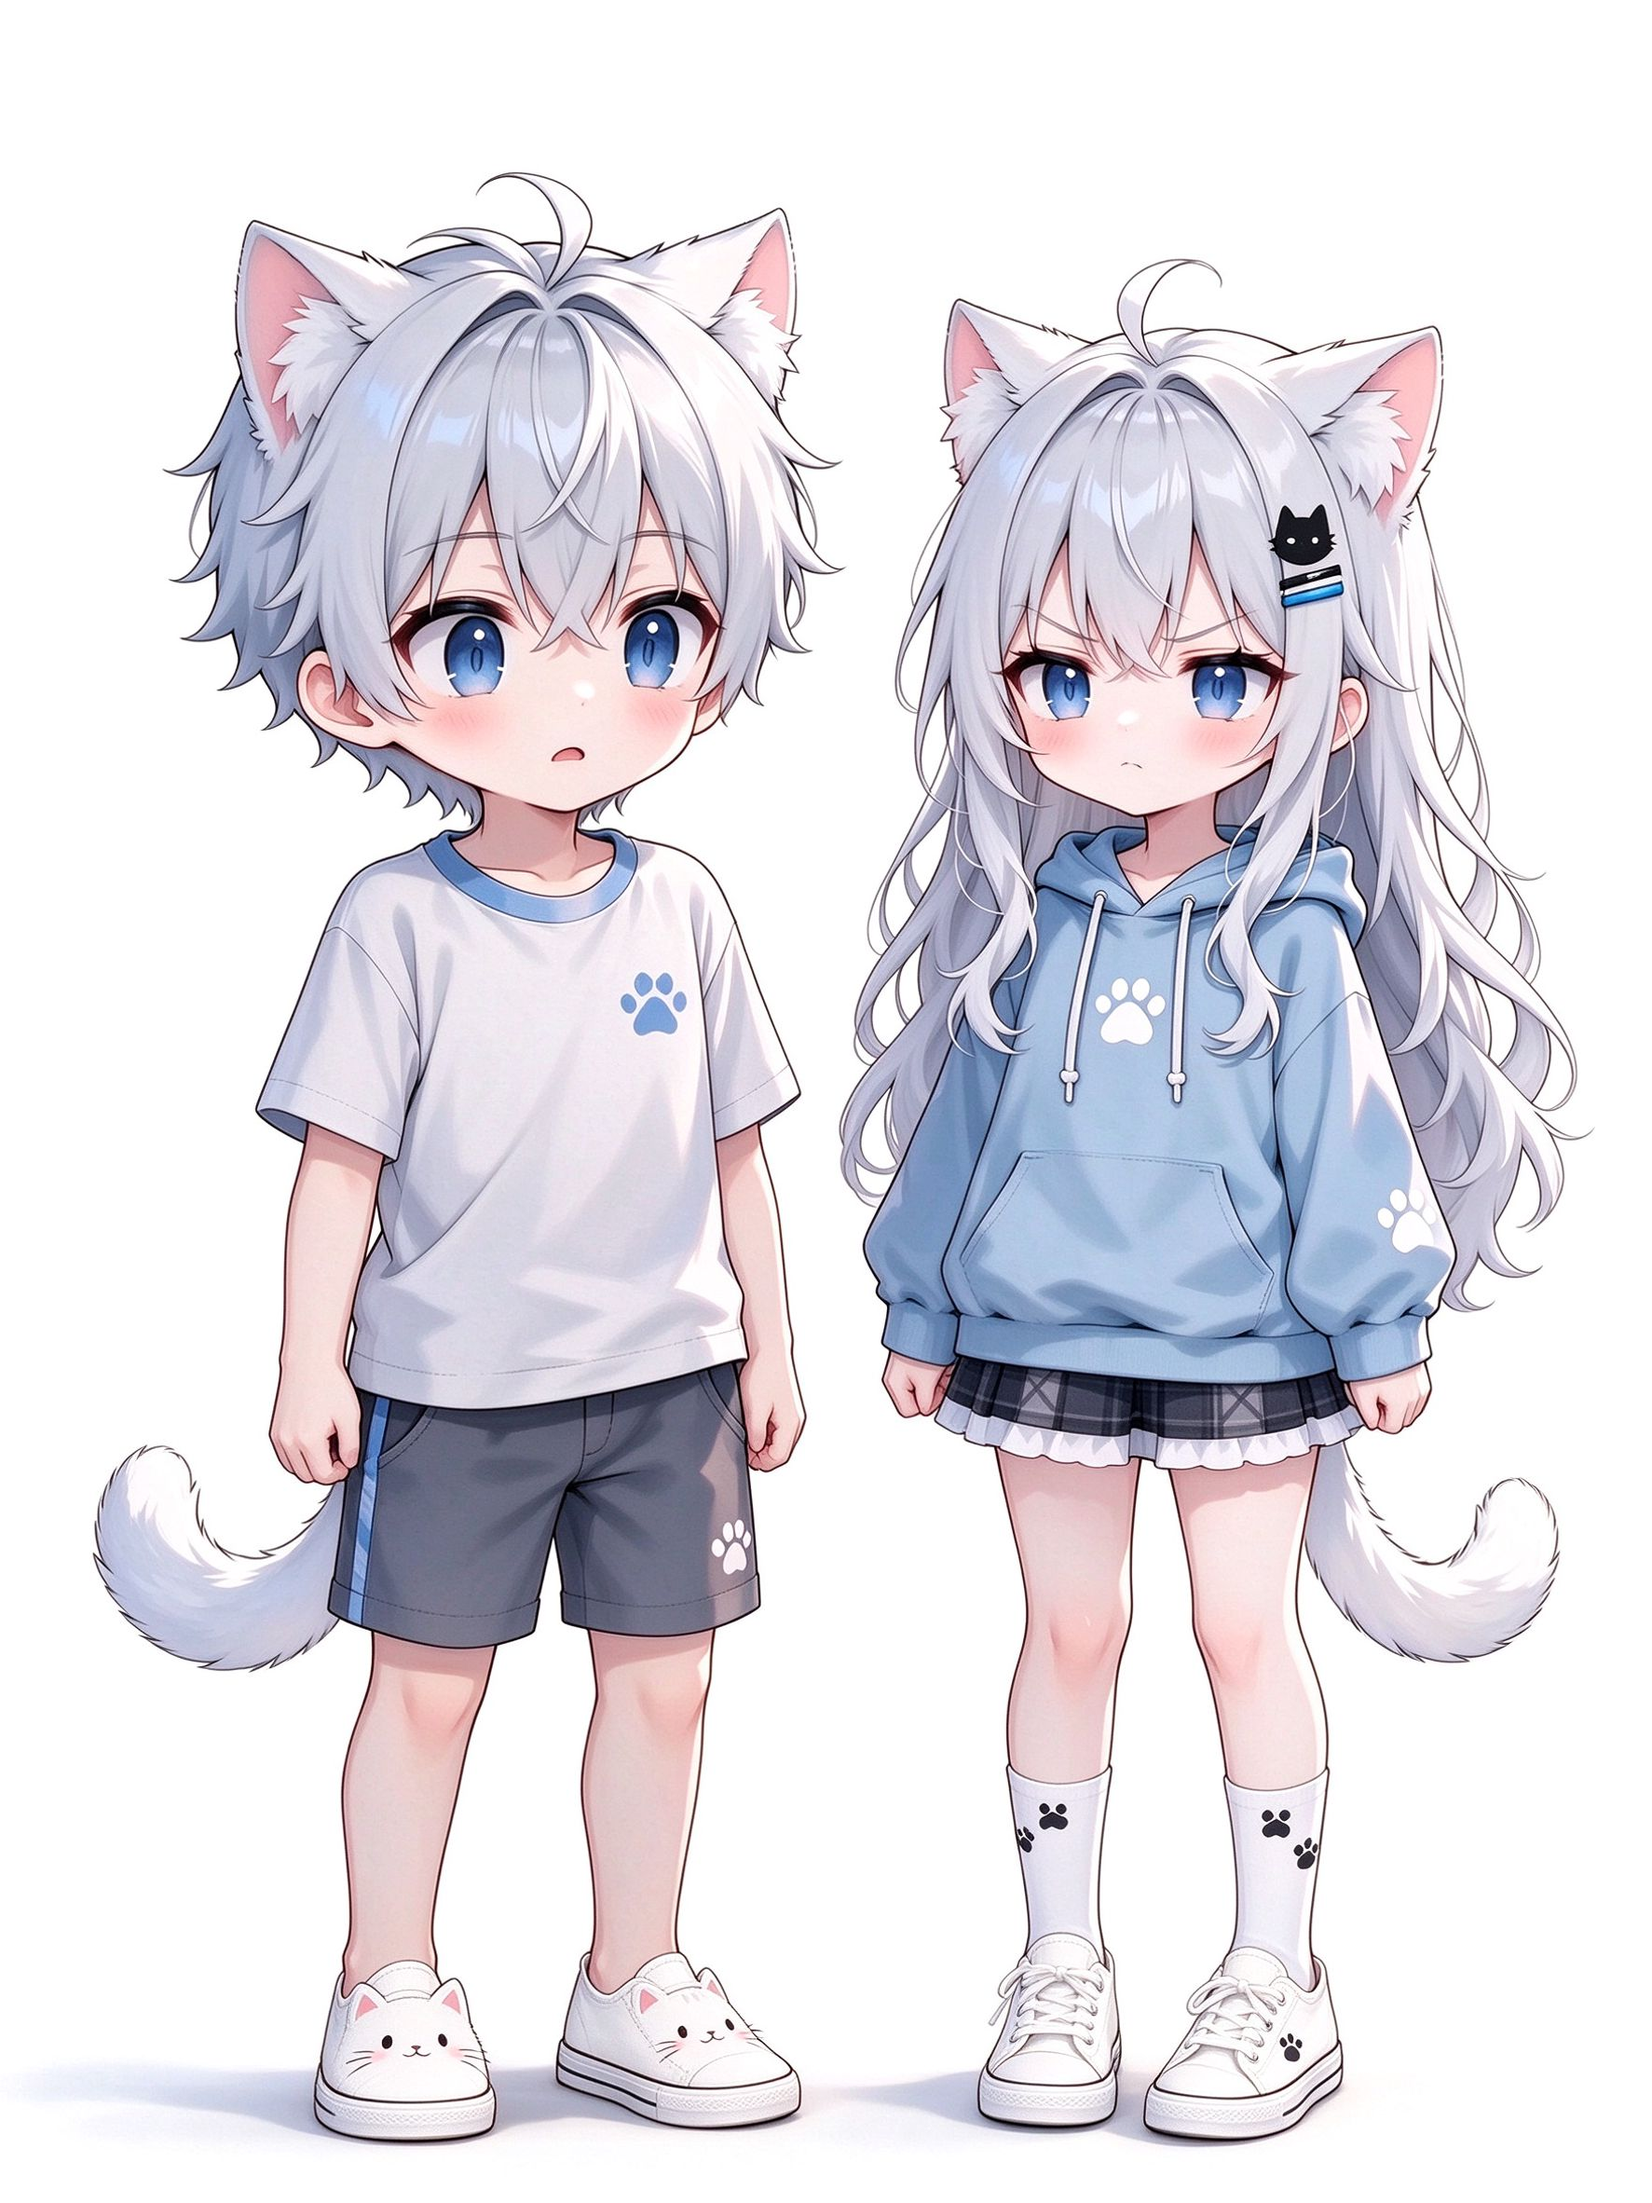
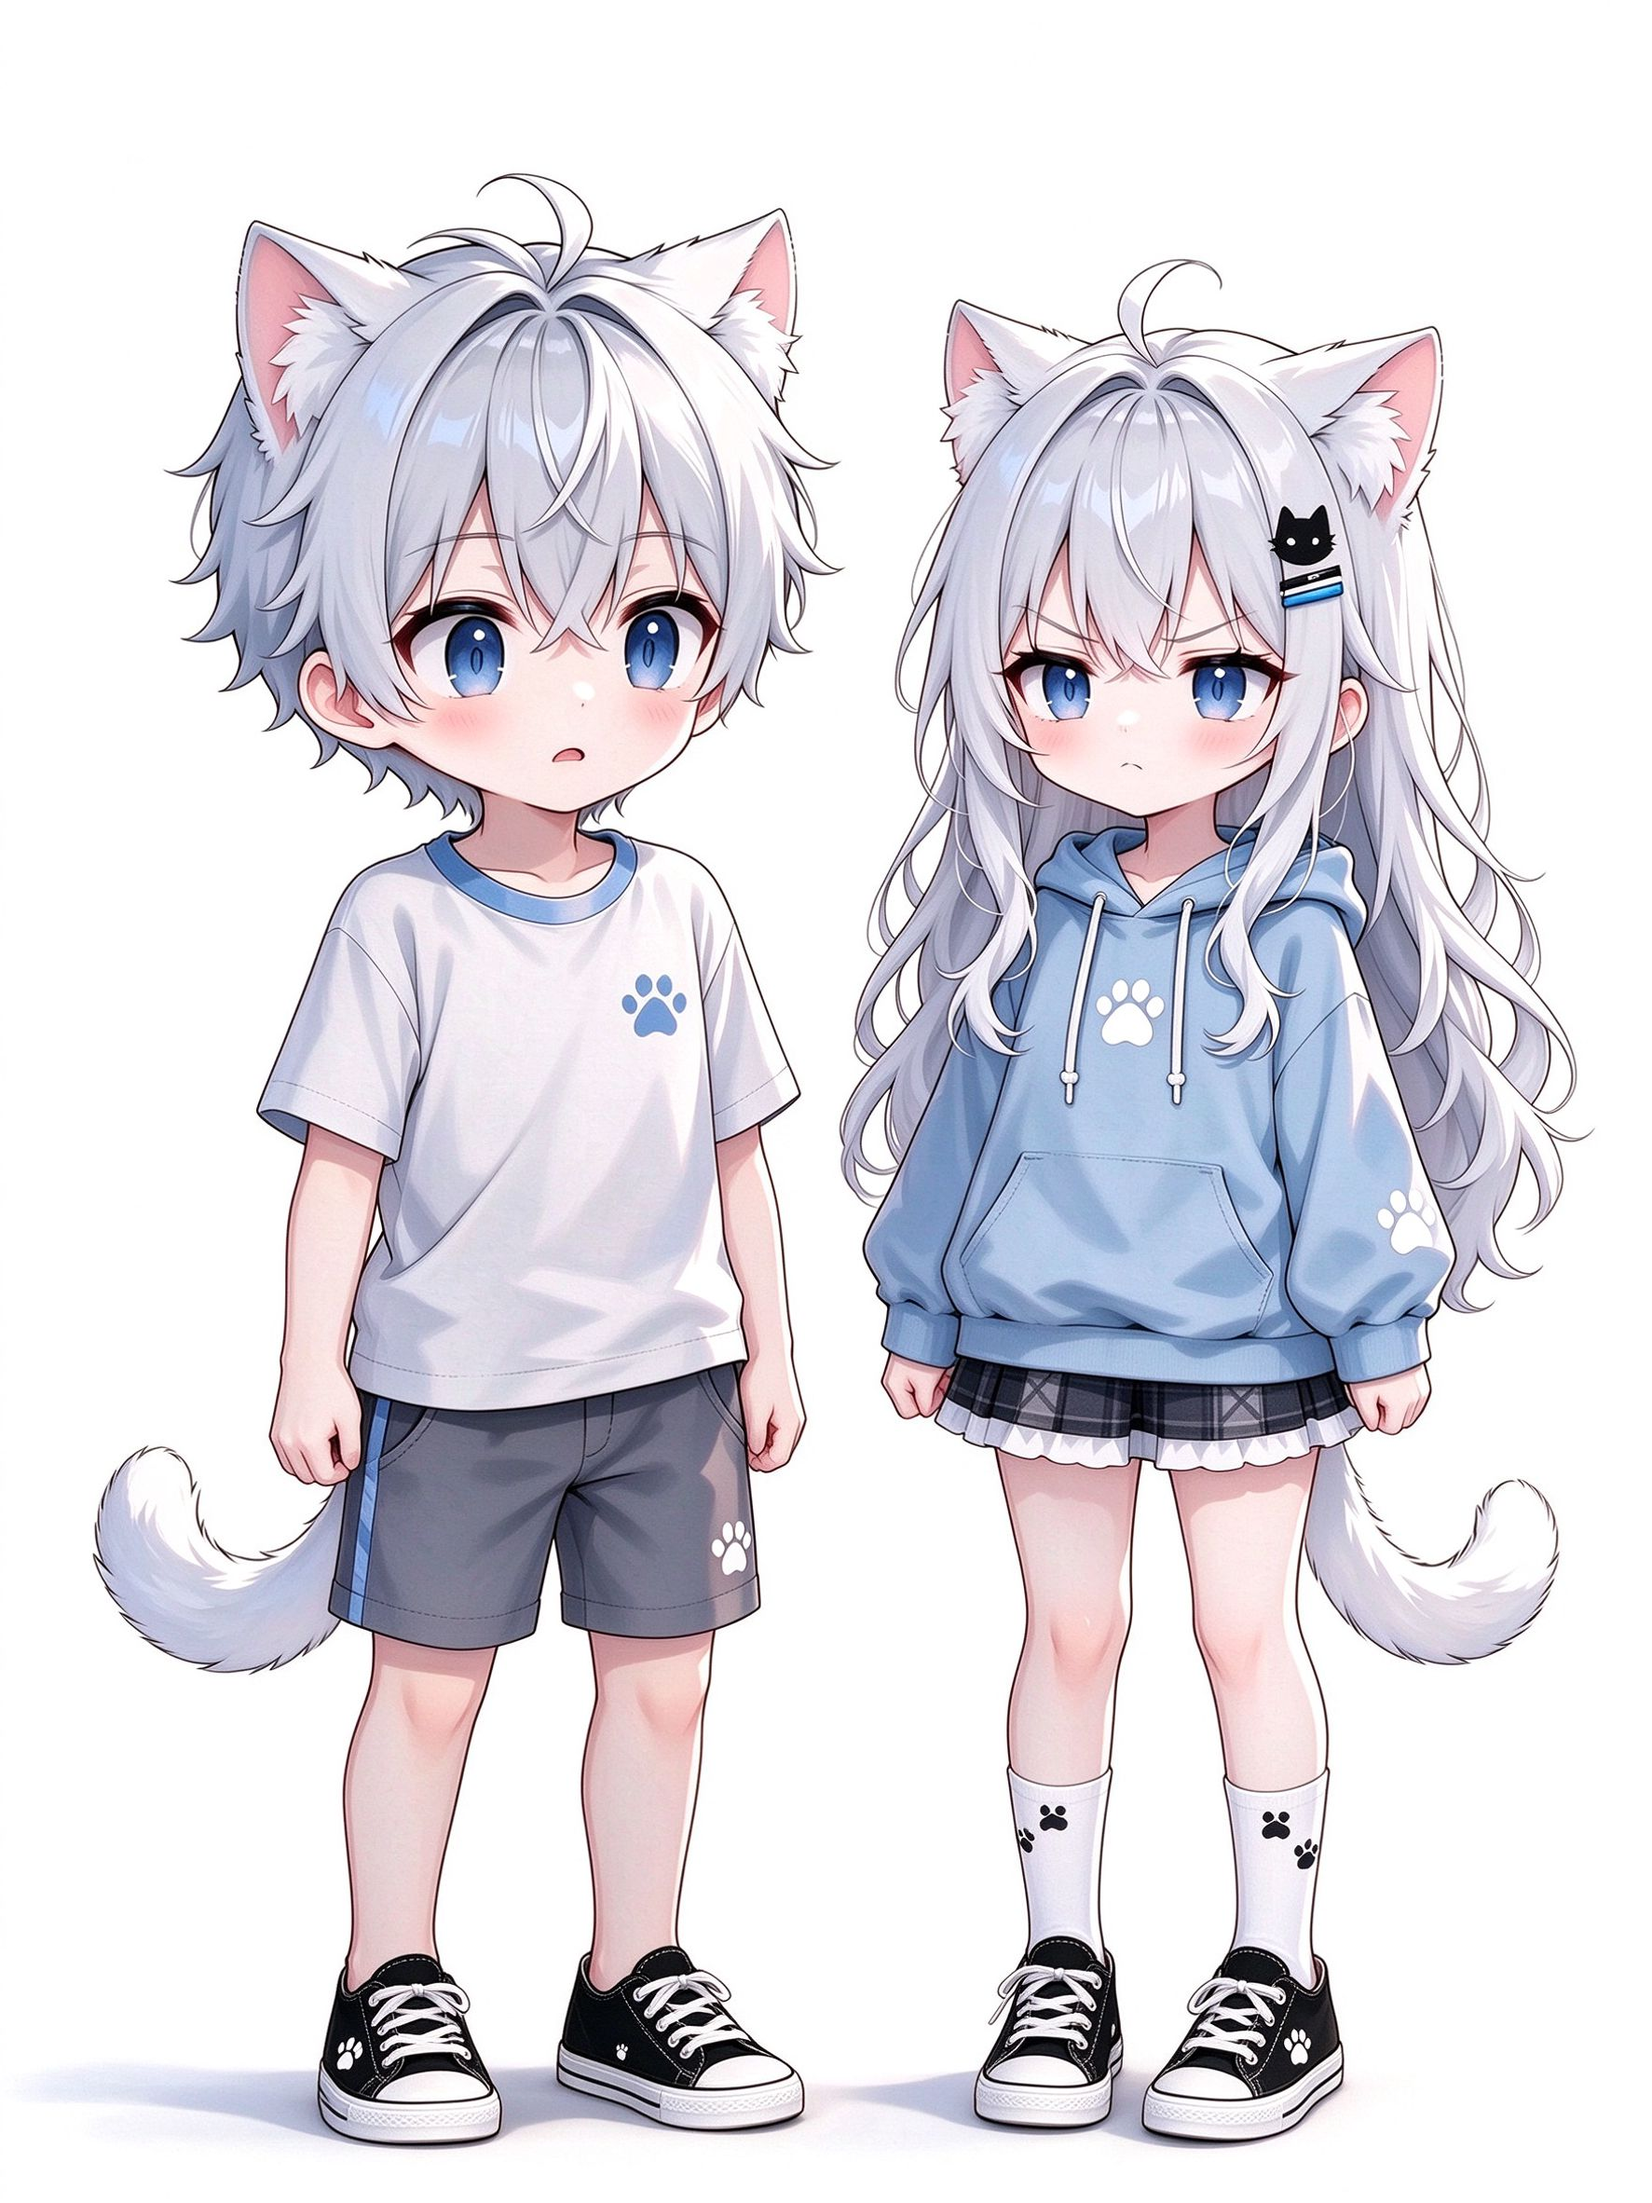
鞋子改为黑色帆布鞋白色猫爪印

diff --git a/references/characters.md b/references/characters.md
@@ -36,7 +36,7 @@
 | 头发 | 银白色短发，带呆毛 |
 | 耳朵/尾巴 | 白色猫耳（内侧粉绒）+ 蓬松白色猫尾 |
 | 配件（不变） | 无发夹；脖子挂黑色头戴耳机（挂黑猫小挂件）；黑色双肩背包（蓝色细节） |
-| 默认服装 | 浅灰短袖T恤（胸口蓝色猫爪印、领口蓝边）、深灰短裤（侧边蓝条、裤腿猫爪印）、白色低帮帆布鞋（鞋面小猫脸图案） |
+| 默认服装 | 浅灰短袖T恤（胸口蓝色猫爪印、领口蓝边）、深灰短裤（侧边蓝条、裤腿猫爪印）、黑色低帮帆布鞋（鞋面白色猫爪印图案） |
 | 表情集 | 平静、微笑、开心、害羞、思考、傲娇、睡觉（见人设图表情展示） |
 | 表情基调 | 叉腰大喊、咧嘴大笑、搞怪、得意 |
 | 性格 | 活泼、爱闹、偶尔呆萌、对可妹很暖（注：人设图上印的"温柔害羞"为图面文字，剧情仍以活泼搞笑为准） |
@@ -50,7 +50,7 @@
 | 头发 | 银白色长卷发（及腰波浪） |
 | 耳朵/尾巴 | 白色猫耳（内侧粉绒）+ 蓬松白色猫尾 |
 | 配件（不变） | 黑色小猫形发夹 + 蓝黑条纹发卡（见人设图细节图） |
-| 默认服装 | 浅蓝连帽卫衣（胸口和袖子白色猫爪印）、深色格纹短裤+白色荷叶边、白色中筒袜（黑色猫爪印）、白色低帮帆布鞋（鞋面猫爪印图案） |
+| 默认服装 | 浅蓝连帽卫衣（胸口和袖子白色猫爪印）、深色格纹短裤+白色荷叶边、白色中筒袜（黑色猫爪印）、黑色低帮帆布鞋（鞋面白色猫爪印图案） |
 | 表情集 | 害羞、开心、生气、呆萌、眨眼（见人设图表情展示） |
 | 表情基调 | 抱臂撇嘴、鼓腮、傲娇转头、被投喂时眼睛弯弯 |
 | 性格 | 傲娇、嘴硬心软、可爱、温柔 |
